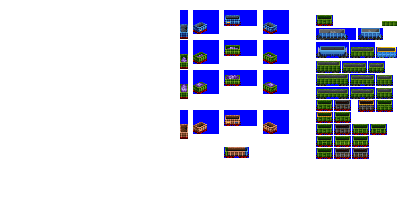
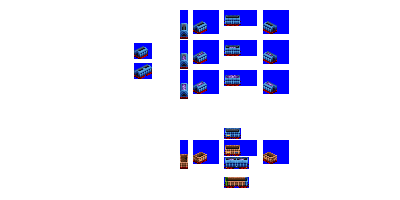
Change: sprites complete for gen 3A and 3B side door hoppers

diff --git a/src/vehicles/pony/side_door_hopper_cars_pony.py b/src/vehicles/pony/side_door_hopper_cars_pony.py
@@ -10,10 +10,10 @@ def main(roster_id, **kwargs):
         base_numeric_id=31450,
         gen=3,
         subtype="A",
-        sprites_complete=False,
+        sprites_complete=True,
     )
 
-    consist.add_unit(type=FreightCar, chassis="2_axle_gapped_16px")
+    consist.add_unit(type=FreightCar, chassis="3_axle_filled_16px")
 
     consist = HopperCarSideDoorConsist(
         roster_id=roster_id,
@@ -21,10 +21,10 @@ def main(roster_id, **kwargs):
         base_numeric_id=35250,
         gen=3,
         subtype="B",
-        sprites_complete=False,
+        sprites_complete=True,
     )
 
-    consist.add_unit(type=FreightCar, chassis="4_axle_gapped_24px")
+    consist.add_unit(type=FreightCar, chassis="4_axle_sparse_24px")
 
     consist = HopperCarSideDoorConsist(
         roster_id=roster_id,
